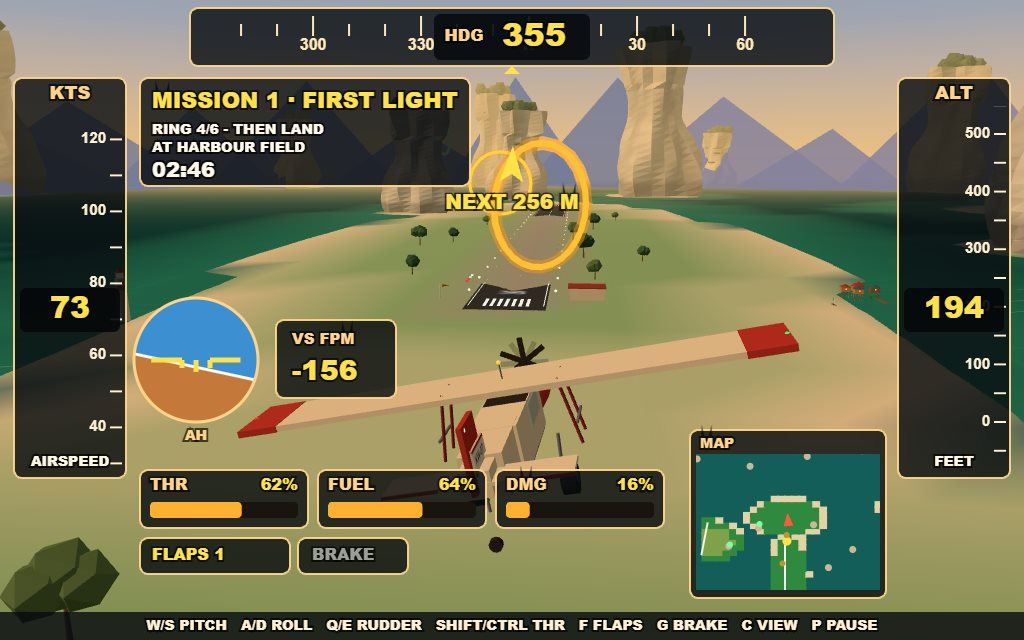
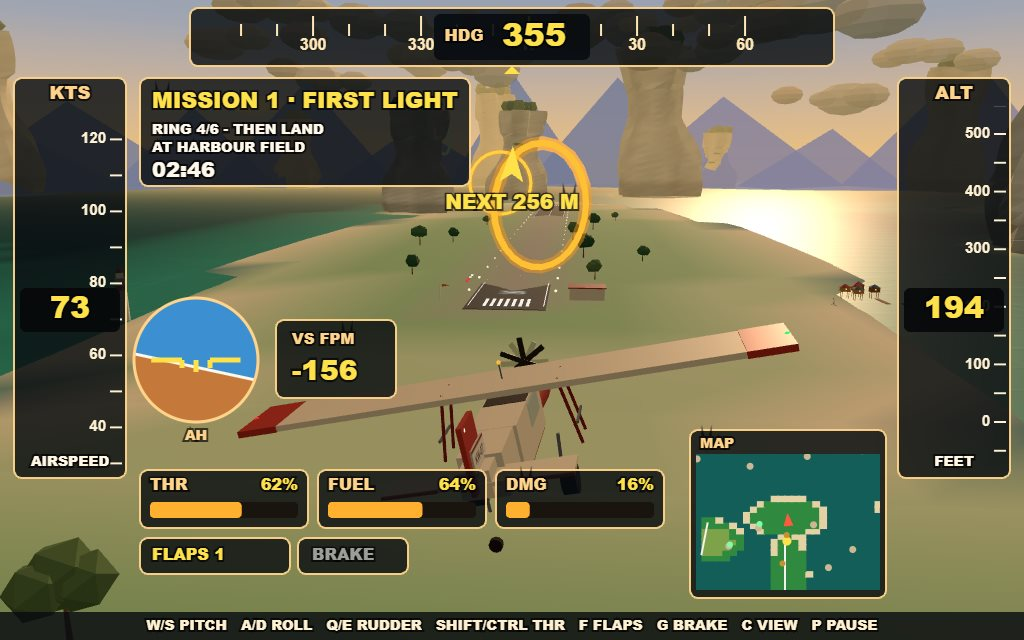
V2: golden-hour sky and clouds

diff --git a/game/src/sky.js b/game/src/sky.js
@@ -32,19 +32,62 @@ function skyDome() {
   return mesh;
 }
 
-function puff(x, y, z, scale) {
-  const group = new THREE.Group();
-  const material = new THREE.MeshBasicMaterial({ color: 0xfff6e6, transparent: true, opacity: 0.9 });
-  const seeds = [[0, 0, 0, 1], [0.7, 0.1, 0.2, 0.75], [-0.65, 0.05, 0.15, 0.7], [0.2, 0.25, -0.2, 0.55]];
-  for (let i = 0; i < seeds.length; i += 1) {
-    const ball = new THREE.Mesh(new THREE.SphereGeometry(18, 8, 6), material);
-    ball.position.set(seeds[i][0] * 40, seeds[i][1] * 20, seeds[i][2] * 30);
-    ball.scale.setScalar(seeds[i][3]);
-    group.add(ball);
+function noise(index, axis) {
+  const value = Math.sin(index * 127.1 + axis * 311.7 + 74.7) * 43758.5453;
+  return value - Math.floor(value);
+}
+
+function buildClouds() {
+  const clouds = new THREE.InstancedMesh(
+    new THREE.SphereGeometry(24, 8, 6),
+    new THREE.MeshStandardMaterial({
+      color: 0xffffff,
+      roughness: 1,
+      flatShading: true,
+      transparent: true,
+      opacity: 0.88,
+      depthWrite: false,
+    }),
+    132,
+  );
+  const dummy = new THREE.Object3D();
+  const tint = new THREE.Color();
+  let index = 0;
+  for (let cluster = 0; cluster < 30; cluster += 1) {
+    const forward = cluster < 18;
+    const angle = forward
+      ? -Math.PI / 2 + (cluster / 17 - 0.5) * 1.0
+      : (cluster - 18) / 12 * Math.PI * 2 + noise(cluster, 1) * 0.16;
+    const distance = forward
+      ? 600 + noise(cluster, 2) * 900
+      : 1000 + noise(cluster, 2) * 1900;
+    const centerX = Math.cos(angle) * distance;
+    const centerZ = Math.sin(angle) * distance;
+    const centerY = forward
+      ? 180 + noise(cluster, 3) * 160
+      : 260 + noise(cluster, 3) * 220;
+    const puffs = 3 + cluster % 2;
+    for (let puff = 0; puff < puffs; puff += 1) {
+      const side = (puff - (puffs - 1) * 0.5) * 42;
+      const size = 0.75 + noise(cluster * 7 + puff, 4) * 1.15;
+      dummy.position.set(
+        centerX + Math.cos(angle + Math.PI / 2) * side + (noise(cluster * 9 + puff, 5) - 0.5) * 36,
+        centerY + (noise(cluster * 11 + puff, 6) - 0.5) * 24,
+        centerZ + Math.sin(angle + Math.PI / 2) * side,
+      );
+      dummy.rotation.set(0, angle, 0);
+      dummy.scale.set(size * 1.55, size * 0.7, size);
+      dummy.updateMatrix();
+      clouds.setMatrixAt(index, dummy.matrix);
+      tint.setHex(puff === 0 ? 0xffe6c6 : 0xfff5e4);
+      clouds.setColorAt(index, tint);
+      index += 1;
+    }
   }
-  group.position.set(x, y, z);
-  group.scale.set(scale, scale * 0.45, scale);
-  return group;
+  clouds.count = index;
+  clouds.instanceMatrix.needsUpdate = true;
+  if (clouds.instanceColor) clouds.instanceColor.needsUpdate = true;
+  return clouds;
 }
 
 export function createSky(scene) {
@@ -53,35 +96,28 @@ export function createSky(scene) {
   scene.add(skyDome());
 
   const sun = new THREE.DirectionalLight(0xffd4a6, 2.35);
-  sun.position.set(-180, 140, 90);
+  sun.position.set(120, 170, -500);
   scene.add(sun);
   scene.add(new THREE.HemisphereLight(0xffe4c0, 0x4e6a40, 0.72));
   scene.add(new THREE.AmbientLight(0xfff0dc, 0.28));
 
-  const sunDir = new THREE.Vector3(-0.74, 0.52, 0.32).normalize().multiplyScalar(5200);
+  const sunDir = new THREE.Vector3(0.22, 0.3, -0.93).normalize().multiplyScalar(5200);
   const disc = new THREE.Mesh(
-    new THREE.CircleGeometry(210, 24),
-    new THREE.MeshBasicMaterial({ color: 0xfff4cc, fog: false, depthWrite: false }),
+    new THREE.CircleGeometry(105, 24),
+    new THREE.MeshBasicMaterial({ color: 0xffbd68, fog: false, depthWrite: false }),
   );
   disc.position.copy(sunDir);
   disc.lookAt(0, 0, 0);
   scene.add(disc);
   const halo = new THREE.Mesh(
-    new THREE.CircleGeometry(420, 24),
-    new THREE.MeshBasicMaterial({ color: 0xffc98a, transparent: true, opacity: 0.35, fog: false, depthWrite: false }),
+    new THREE.CircleGeometry(210, 24),
+    new THREE.MeshBasicMaterial({ color: 0xffa45d, transparent: true, opacity: 0.1, fog: false, depthWrite: false }),
   );
   halo.position.copy(sunDir);
   halo.lookAt(0, 0, 0);
   scene.add(halo);
 
-  const clouds = new THREE.Group();
-  clouds.add(puff(-280, 340, -520, 2.4));
-  clouds.add(puff(460, 390, -180, 2.1));
-  clouds.add(puff(-720, 420, 380, 2.8));
-  clouds.add(puff(180, 460, -1400, 3.2));
-  clouds.add(puff(980, 360, 220, 2.2));
-  clouds.add(puff(-80, 300, 820, 1.8));
-  clouds.add(puff(240, 480, 1400, 2.6));
+  const clouds = buildClouds();
   scene.add(clouds);
   return { clouds };
 }

diff --git a/game/src/water.js b/game/src/water.js
@@ -100,22 +100,22 @@ function foamRings() {
 }
 
 function sunGlitter() {
-  const direction = new THREE.Vector2(-0.74, 0.32).normalize();
+  const direction = new THREE.Vector2(0.22, -0.96).normalize();
   const across = new THREE.Vector2(-direction.y, direction.x);
   const geometry = new THREE.PlaneGeometry(1, 1);
   geometry.rotateX(-Math.PI / 2);
   const mesh = new THREE.InstancedMesh(
     geometry,
-    new THREE.MeshBasicMaterial({ color: 0xffd28a, transparent: true, opacity: 0.22, depthWrite: false }),
-    64,
+    new THREE.MeshBasicMaterial({ color: 0xffd28a, transparent: true, opacity: 0.035, depthWrite: false }),
+    48,
   );
   const dummy = new THREE.Object3D();
   const heading = Math.atan2(-direction.y, direction.x);
-  for (let i = 0; i < 64; i += 1) {
-    const along = (i - 31.5) * 31;
+  for (let i = 0; i < 48; i += 1) {
+    const along = (i - 23.5) * 45;
     const side = Math.sin(i * 12.9898) * 54;
-    const length = 10 + (i % 5) * 5;
-    const width = 2 + (i % 3) * 1.3;
+    const length = 8 + (i % 5) * 3;
+    const width = 1.5 + (i % 3) * 0.8;
     dummy.position.set(
       direction.x * along + across.x * side,
       WORLD.water + 0.16,
@@ -141,8 +141,8 @@ export function createWater() {
     map: texture,
     bumpMap: texture,
     bumpScale: 0.32,
-    roughness: 0.3,
-    metalness: 0.22,
+    roughness: 0.55,
+    metalness: 0.06,
     emissive: 0x0b3532,
     emissiveIntensity: 0.2,
   });
